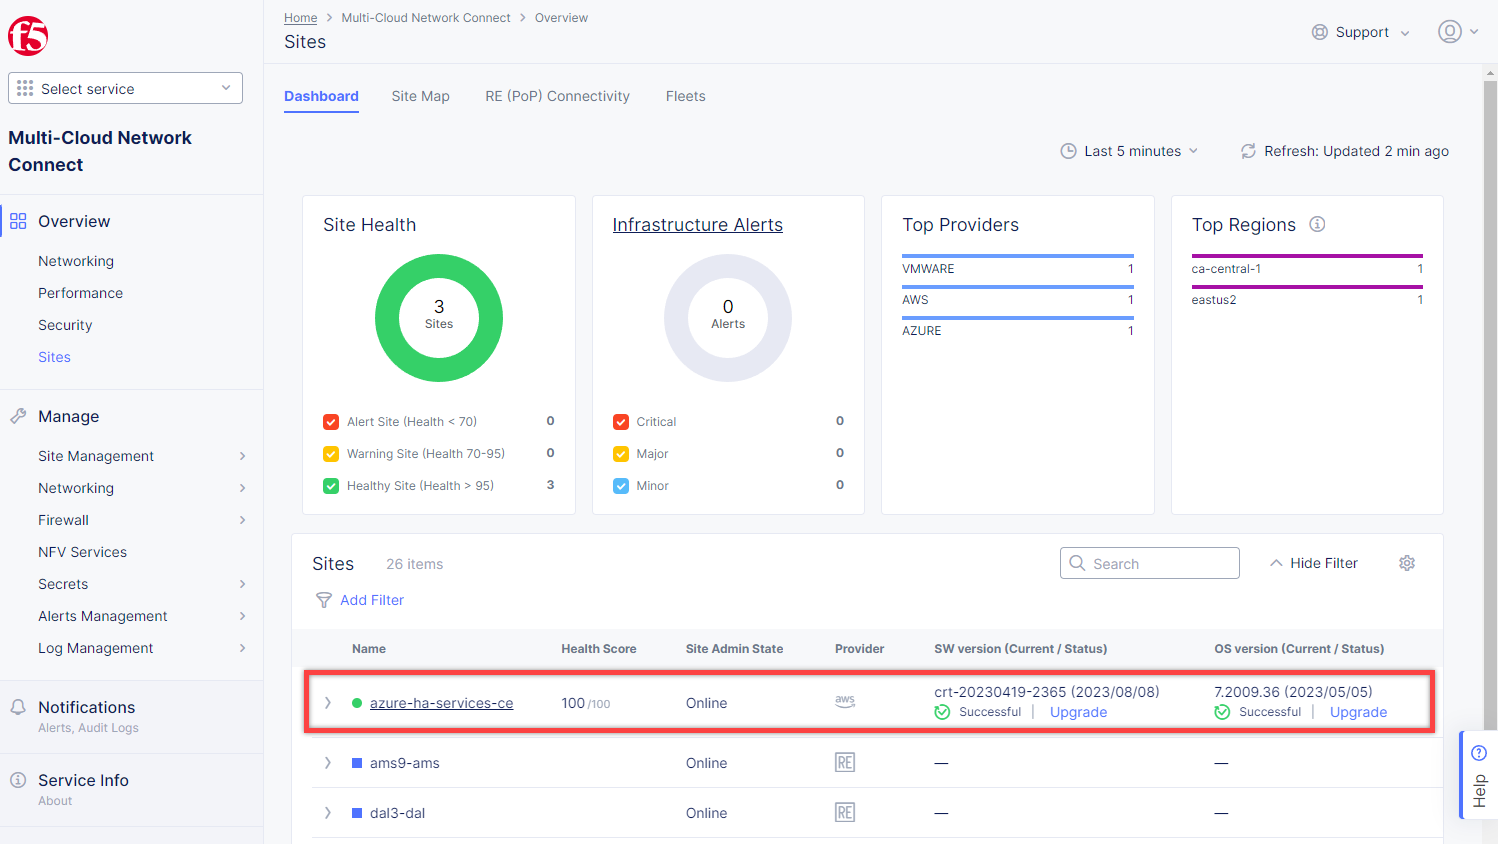
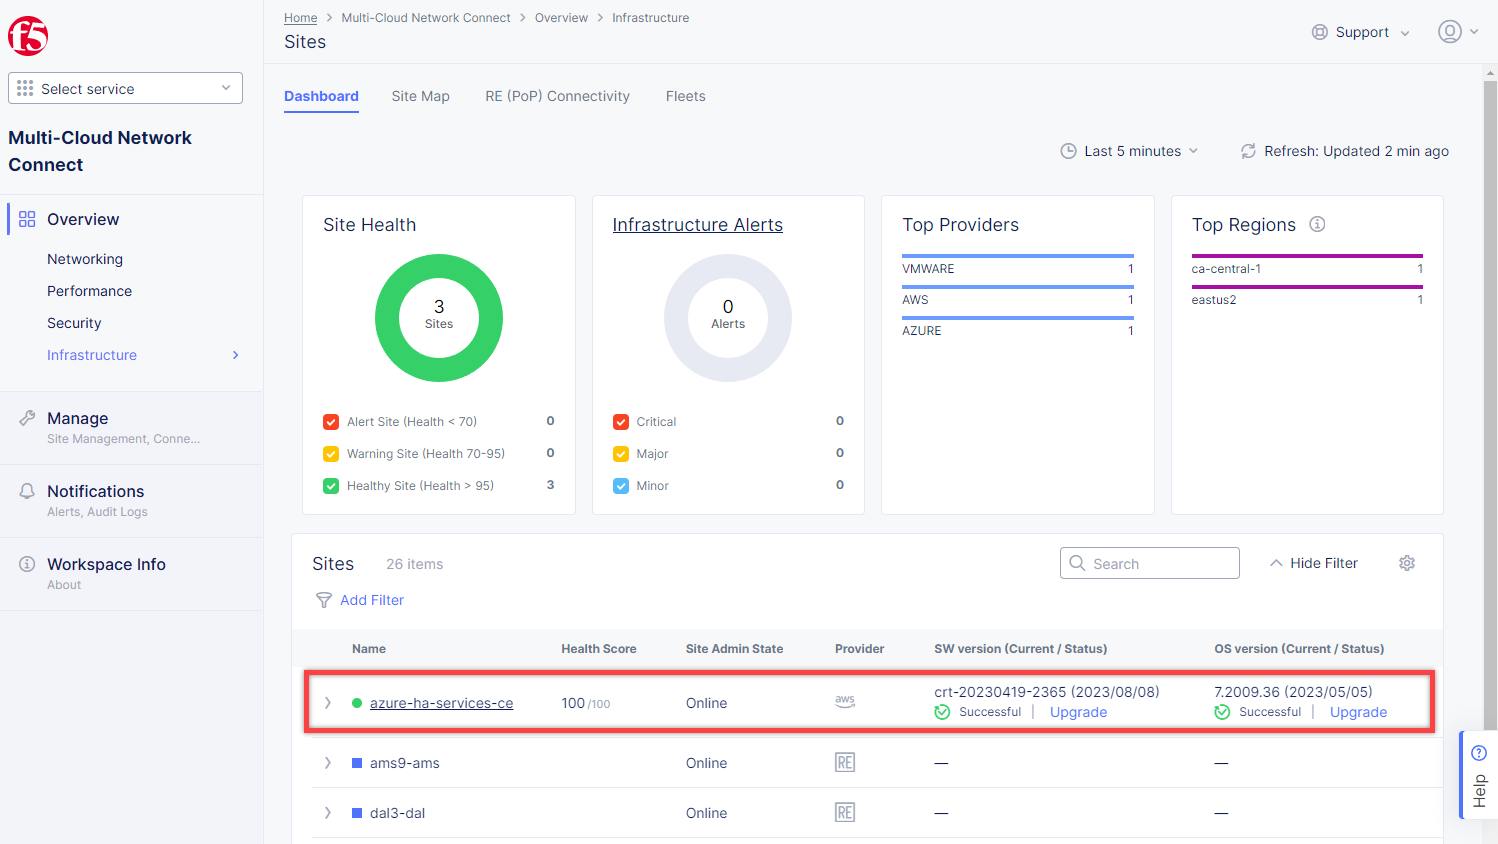
screenshot & text edits

diff --git a/terraform/README.md b/terraform/README.md
@@ -1,8 +1,8 @@
-#   Deployment instructions
+# Deployment instructions
 
 ## Deploy infrastructure
 
-Before running the Terraform script, please make sure that you have [installed the Azure CLI](https://learn.microsoft.com/en-us/cli/azure/install-azure-cli) and have [signed in to your Azure Account](https://learn.microsoft.com/en-us/cli/azure/authenticate-azure-cli). It is required that you have the **Owner** role and create service principal subscription with **Contributor** role for it. You also must [accept the subscription agreement](https://docs.cloud.f5.com/docs/how-to/site-management/create-azure-site#accept-subscription-agreement) to deploy the XC Azure VNET Site.
+Before running the Terraform script, please make sure that you have [installed the Azure CLI](https://learn.microsoft.com/en-us/cli/azure/install-azure-cli) and have [signed in to your Azure Account](https://learn.microsoft.com/en-us/cli/azure/authenticate-azure-cli). It is required that you have the **Owner** role and create service principal subscription with **Contributor** role for it. You also must [accept the subscription agreement](https://docs.cloud.f5.com/docs/how-to/site-management/create-azure-site#accept-subscription-agreement) to deploy the F5 Distributed Cloud Azure VNET Site.
 
 Open the **./azure-site/var.tf** file and fill in the variables with your Azure Tenant ID and Subscription ID:
 
@@ -16,7 +16,7 @@ Open the **./azure-site/var.tf** file and fill in the variables with your Azure 
         default = "your_tenant_id"
     }
 
-Find **xc_api_url** variable and fill it with your F5 xC tenant name.
+Find **xc_api_url** variable and fill it with your F5 Distributed Cloud Services tenant name.
 
     variable "xc_api_url" {
         type = string
@@ -72,15 +72,13 @@ Save the terraform output
     xc_private_key = <sensitive>
     xc_public_key = your_public_ssh_key
 
-
-Open F5 Distributed Cloud Console and navigate to the Multi-Cloud Network Connect tab.
+Open Distributed Cloud Console and navigate to the **Multi-Cloud Network Connect** tab.
 
 ![](../assets/azure/site.png)
 
-Open **Site List** and check the **Health Score**. It may take some time to provision the node.
+Open **Infrastructure** => **Sites** and check the **Health Score**. It may take some time to provision the node.
 
 ![](../assets/azure/site_health.png)
-
 
 ## Deploy application
 
@@ -92,14 +90,14 @@ Update the **xc_api_p12_file** environment variable with the path for the .p12 c
         default = "./path-to-api-cert.p12"
     }
 
-Find the **xc_api_url** variable and fill it with your F5 xC tenant name.
+Find the **xc_api_url** variable and fill it with your Distributed Cloud Services tenant name.
 
     variable "xc_api_url" {
         type = string
         default = "https://your_tenant.console.ves.volterra.io/api"
     }
 
-Find the **cluster_domain** variable in the terraform output from the previous step and update the value in the **var.tf** file. You can also find how to generate it [manually in the guide](https://github.com/f5devcentral/xcazurehacedemoguide#updating-db-deployment-chart-values)
+Find the **cluster_domain** variable in the terraform output from the previous step and update the value in the **var.tf** file. You can also find how to generate it [manually in the guide](https://github.com/f5devcentral/xchaazdemoguide/blob/main/README.md#updating-db-deployment-chart-values)
 
     variable "cluster_domain" {
       type    = string
@@ -131,34 +129,33 @@ Run **apply** command to deploy the app
 
     terraform apply
 
-
 ## Azure-Site Variables description
 
-Variable Name                  | Description                                                     | Default Value          
--------------------------------|-----------------------------------------------------------------|------------------------
-environment                    | Environment name. Usually match with XC namespace name.         | "ha-services-ce"                   
-xc_api_p12_file                | API credential p12 file path.                                   | "../api-creds.p12"                  
-xc_api_url                     | Tenant API url file path.                                       | "https://**your_tenant_name**.console.ves.volterra.io/api"                   
-kubeconfig_path                | Generated vk8s kubeconfig file path.                            | "../kubeconfig.conf"                   
-azure_rg_location              | Azure Region name                                               | "centralus"
-azure_subscription_id          | Azure Subscription Id                                           | ""
-azure_subscription_tenant_id   | Azure Tenant Id                                                 | ""
-azure_xc_machine_type          | Azure VM Type                                                   | "Standard_D3_v2"
+| Variable Name                | Description                                             | Default Value                                              |
+| ---------------------------- | ------------------------------------------------------- | ---------------------------------------------------------- |
+| environment                  | Environment name. Usually match with XC namespace name. | "ha-services-ce"                                           |
+| xc_api_p12_file              | API credential p12 file path.                           | "../api-creds.p12"                                         |
+| xc_api_url                   | Tenant API url file path.                               | "https://**your_tenant_name**.console.ves.volterra.io/api" |
+| kubeconfig_path              | Generated vk8s kubeconfig file path.                    | "../kubeconfig.conf"                                       |
+| azure_rg_location            | Azure Region name                                       | "centralus"                                                |
+| azure_subscription_id        | Azure Subscription Id                                   | ""                                                         |
+| azure_subscription_tenant_id | Azure Tenant Id                                         | ""                                                         |
+| azure_xc_machine_type        | Azure VM Type                                           | "Standard_D3_v2"                                           |
 
 ## Application Variables description
 
-Variable Name       | Description                                                     | Default Value          
---------------------|-----------------------------------------------------------------|------------------------
-environment         | Environment name. Usually match with XC namespace name.         | "ha-services-ce"                   
-xc_api_p12_file     | API credential p12 file path.                                   | "../api-creds.p12"                  
-xc_api_url          | Tenant API url file path.                                       | "https://**your_tenant_name**.console.ves.volterra.io/api"                   
-kubeconfig_path     | vk8s kubeconfig file path.                                      | "../kubeconfig.conf"                   
-helm_path           | Helm charts path.                                               | "../../helm"
-cluster_domain      | Cluster domain in format **{site_name}.{tenant_id}**.tenant.local. Where **site_name** is the Edge site name. Can be generated from [the guide](https://github.com/f5devcentral/xchacedemoguide#step-2-deploy-ha-postgresql-to-ce) or taken from the terraform's output of the previous step.   |  **your_site_name.your_tenant_full_name**.tenant.local
-registry_username   | Docker Registry Username                                        | ""
-registry_password   | Docker Registry Password                                        | ""
-registry_email      | Docker Registry Email                                           | ""
-virtual_site_name   | Virtual Site Name                                               | "ha-services-ce-vs"
+| Variable Name     | Description                                                                                                                                                                                                                                                                                   | Default Value                                              |
+| ----------------- | --------------------------------------------------------------------------------------------------------------------------------------------------------------------------------------------------------------------------------------------------------------------------------------------- | ---------------------------------------------------------- |
+| environment       | Environment name. Usually match with XC namespace name.                                                                                                                                                                                                                                       | "ha-services-ce"                                           |
+| xc_api_p12_file   | API credential p12 file path.                                                                                                                                                                                                                                                                 | "../api-creds.p12"                                         |
+| xc_api_url        | Tenant API url file path.                                                                                                                                                                                                                                                                     | "https://**your_tenant_name**.console.ves.volterra.io/api" |
+| kubeconfig_path   | vk8s kubeconfig file path.                                                                                                                                                                                                                                                                    | "../kubeconfig.conf"                                       |
+| helm_path         | Helm charts path.                                                                                                                                                                                                                                                                             | "../../helm"                                               |
+| cluster_domain    | Cluster domain in format **{site_name}.{tenant_id}**.tenant.local. Where **site_name** is the Edge site name. Can be generated from [the guide](https://github.com/f5devcentral/xchacedemoguide#step-2-deploy-ha-postgresql-to-ce) or taken from the terraform's output of the previous step. | **your_site_name.your_tenant_full_name**.tenant.local      |
+| registry_username | Docker Registry Username                                                                                                                                                                                                                                                                      | ""                                                         |
+| registry_password | Docker Registry Password                                                                                                                                                                                                                                                                      | ""                                                         |
+| registry_email    | Docker Registry Email                                                                                                                                                                                                                                                                         | ""                                                         |
+| virtual_site_name | Virtual Site Name                                                                                                                                                                                                                                                                             | "ha-services-ce-vs"                                        |
 
 ## Delete environment
 
